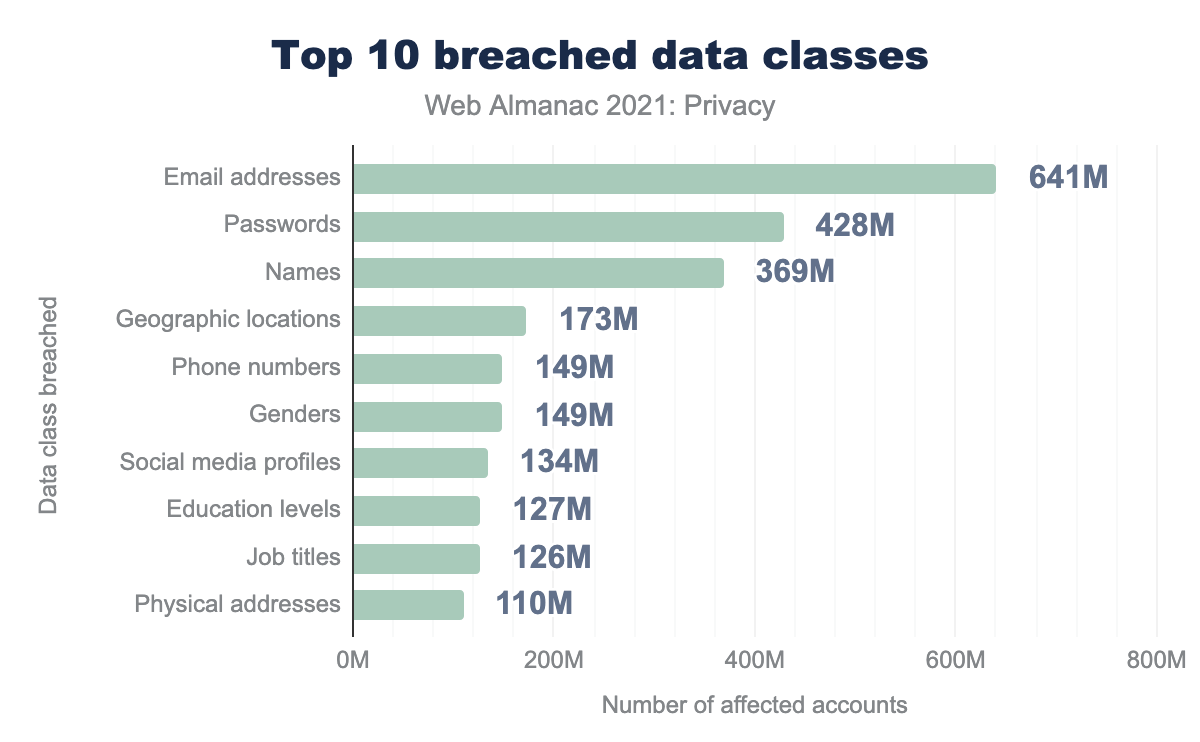
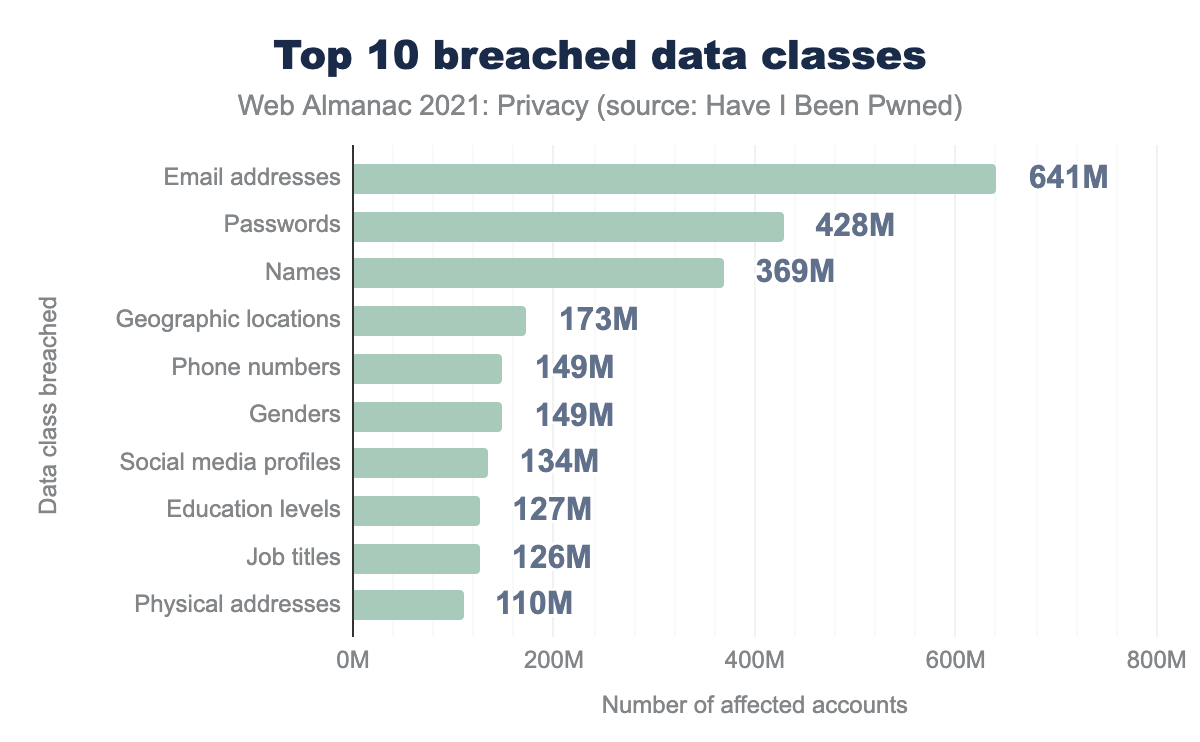
Source Have I Been Pwned more

diff --git a/src/content/en/2021/third-parties.md b/src/content/en/2021/third-parties.md
@@ -24,7 +24,7 @@ Ah third parties, the solution to so many problems on the web… and cause of so
 
 Third parties provide a never-ending collection of images, videos, fonts, tools, libraries, widgets, trackers, ads, and anything else you can imagine embedding into our web pages. This enables even the most non-technical to be able to create and publish content to the web. Without third parties, the web would likely be a very boring, text-based, academic medium instead of the rich, immersive, complex platform that is so integral to the lives of many of us today.
 
-However, there is a dark side to using third-party content on the web. An innocuous inclusion of an image or a helpful library opens the floodgates to all sorts of [performance](./performance), [privacy](./performance), and [security](./security) implications that many developers do not consider fully. Speak to any professionals in those industries and they will lament the use of third-party content making their lives more difficult. Scrutiny is surely only going to grow with performance getting extra attention through the <a hreflang="en" href="https://web.dev/vitals/">Core Web Vitals initiative from Google</a>, increased focus on privacy from governments and individuals, and the ever-increasing threat of exploitable vulnerabilities and malicious threats inherent to the web.
+However, there is a dark side to using third-party content on the web. An innocuous inclusion of an image or a helpful library opens the floodgates to all sorts of [performance](./performance), [privacy](./privacy), and [security](./security) implications that many developers do not consider fully. Speak to any professionals in those industries and they will lament the use of third-party content making their lives more difficult. Scrutiny is surely only going to grow with performance getting extra attention through the <a hreflang="en" href="https://web.dev/vitals/">Core Web Vitals initiative from Google</a>, increased focus on privacy from governments and individuals, and the ever-increasing threat of exploitable vulnerabilities and malicious threats inherent to the web.
 
 In this chapter we're going to have a look at the state of third parties on the web: how much are we using them, what are we using them for, and has our usage changed over the last year, particularly given the three concerns listed above? These are questions I'm looking to answer here.
 

diff --git a/src/content/en/2021/privacy.md b/src/content/en/2021/privacy.md
@@ -275,7 +275,7 @@ Poor security management within a company can have a significant impact on its c
 
 {{ figure_markup(
   image="data_breaches_pwned_accounts_per_class.png",
-  caption="Number of impacted accounts in breaches per data class.",
+  caption='Number of impacted accounts in breaches per data class. (Source: <a hreflang="en" href="https://haveibeenpwned.com/">Have I Been Pwned</a>)',
   description="Bar chart showing the number of user accounts involved in data breaches, according to the data class that leaked in the breach. 641 million Email addresses were included in breaches, 428 million Passwords, 369 million Names, 173 million Geographic locations, 149 million Phone numbers, 149 million Genders, 134 million Social media profiles, 127 million Education levels, 126 million Job titles, and finally 110 million Physical addresses.",
   chart_url="https://docs.google.com/spreadsheets/d/e/2PACX-1vRfOwcNkLp-mYBkmhDV5AFxl8p0ls9oxFnmmo0WUcAJxjxQqmHjquRZCWj_lNZRyFtX3RdH5T92IESu/pubchart?oid=1612339126&format=interactive",
   sheets_gid="1158689200",
@@ -283,7 +283,7 @@ Poor security management within a company can have a significant impact on its c
   )
 }}
 
-Every data breach tracked by HaveIBeenPwned leaks email addresses, since this is how users query whether their data was breached. Leaked email addresses are already a huge privacy risk, since many users employ their full name or credentials to set up their email address. Furthermore, a lot of other highly sensitive information is leaked in some breaches, such as users' genders, bank account numbers and even full physical addresses.
+Every data breach tracked by <a hreflang="en" href="https://haveibeenpwned.com/">Have I Been Pwned</a> leaks email addresses, since this is how users query whether their data was breached. Leaked email addresses are already a huge privacy risk, since many users employ their full name or credentials to set up their email address. Furthermore, a lot of other highly sensitive information is leaked in some breaches, such as users' genders, bank account numbers and even full physical addresses.
 
 ## How websites protect your sensitive data
 
